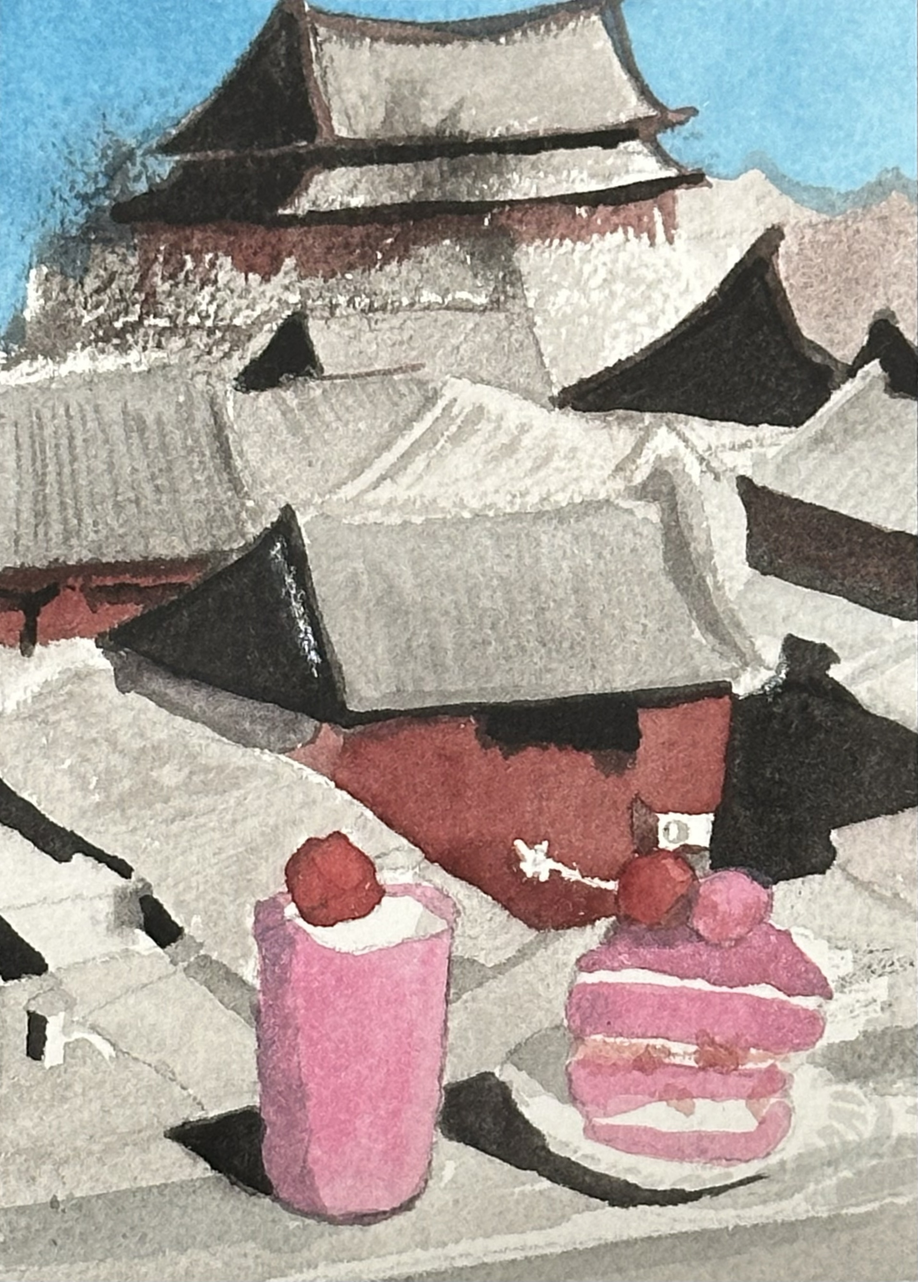
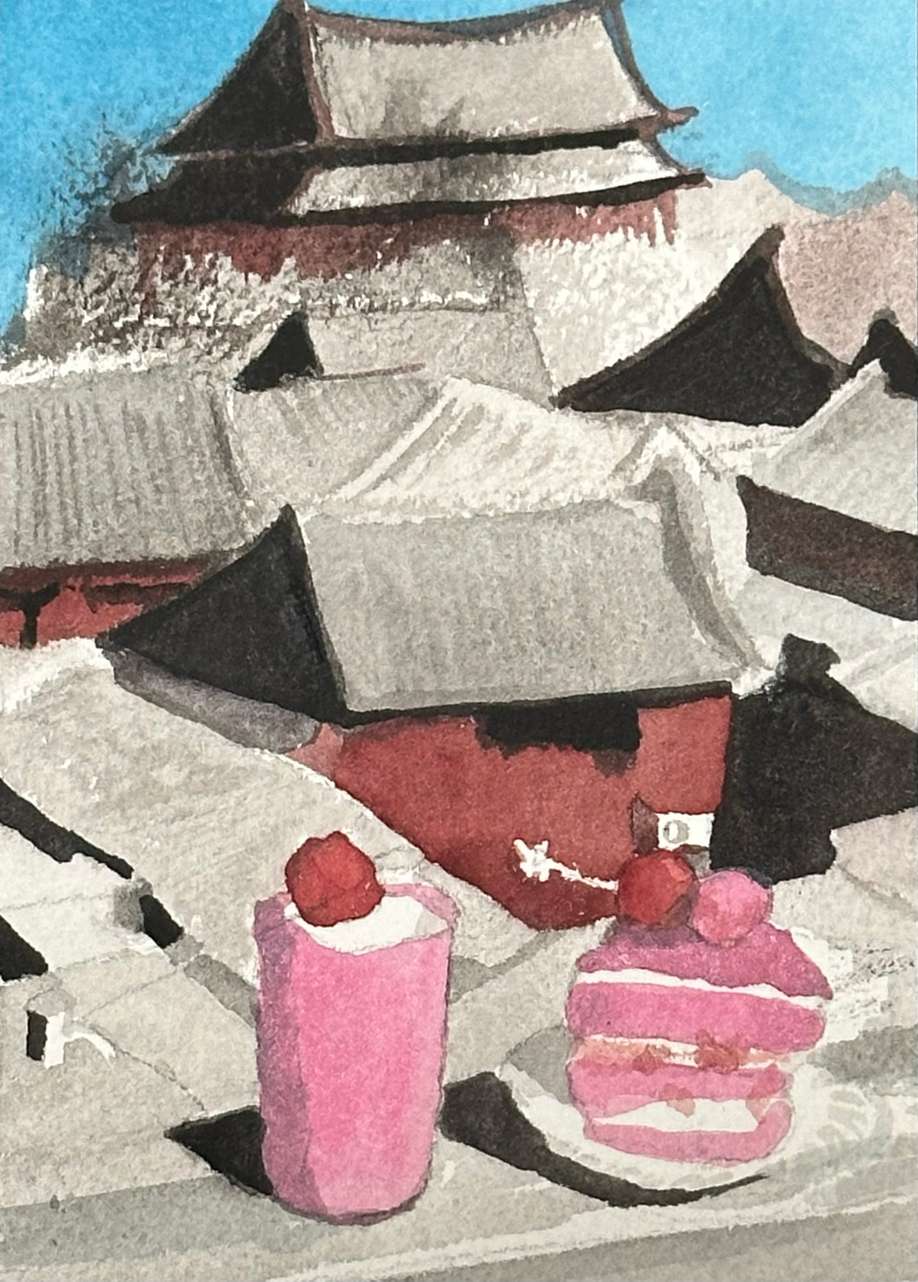
Book: Beijing plate image replaced again with her latest castle-and-cake version; caption restored
Her direction (2026-11-11, later that evening): 「北京 再换成这张」 — the Beijing plate (Notes from the Road #15) takes the newest version of the castle-and-cake watercolor she sent (upload.jpg), replacing the IMG_7194 version added earlier in this PR. The versions are not the same painting (her correction); the book-only file public/book/road/road-castle-cake.jpg now holds the new version's exact bytes. Shop data and image stay untouched.

She also reaffirmed the plate as 北京, so the caption returns to the plate's original three lines — "2025 · Watercolor on paper · 纸本水彩" / "Beijing, China." / "中国，北京。" — undoing the medium-only placeholder caption. Only the picture changes now; the slot (chapter end, folio 83), the cream page and the no-title rule for this chapter are unchanged.

diff --git a/src/pages/CatalogBook.tsx b/src/pages/CatalogBook.tsx
@@ -3468,19 +3468,20 @@ function useBookModel(args: {
         const [nine] = roadChapter.items.splice(nineIdx, 1);
         roadChapter.items.unshift(nine);
       }
-      // Her direction (2026-11-11): the watercolor she sent that day —
-      // a castle keep and grey tiled roofs under a blue sky, a pink
-      // strawberry drink and a pink layered cake in the foreground —
-      // replaces the Beijing plate (Notes from the Road #15) IN THE
-      // BOOK ONLY. The catalog work, its shop image
-      // (/watercolors/60/main.jpg) and its data stay untouched; the
-      // book renders the book-only file at the Beijing plate's slot,
-      // which stays at the chapter's end for now. The new painting's
-      // year and place are NOT yet confirmed by her, so its caption
-      // prints the medium line only — no year, no place line (and no
-      // title, per this chapter's rule) — until she names them; once
-      // she does, the plate may also need to move to that place's
-      // country group above. The slot keeps its cream page (see
+      // Her direction (2026-11-11): the castle-and-cake watercolor
+      // (a castle keep and grey tiled roofs under a blue sky, a pink
+      // strawberry drink and a pink layered cake in the foreground)
+      // replaces the Beijing plate's image (Notes from the Road #15)
+      // IN THE BOOK ONLY. The catalog work, its shop image
+      // (/watercolors/60/main.jpg) and its data stay untouched; only
+      // the picture at the plate's slot is swapped for the book-only
+      // file, and the plate keeps its ORIGINAL caption — year 2025
+      // and the Beijing place lines from the work's data (no title,
+      // per this chapter's rule). She sent the painting in successive
+      // versions that day and corrected us that they are not the same
+      // painting; the file at /book/road/road-castle-cake.jpg is the
+      // latest version she named («北京 再换成这张»). The slot keeps
+      // its chapter-end position and its cream page (see
       // pageBackgrounds.ts).
       roadChapter.items = roadChapter.items.map((pair) =>
         pair.item.title === "Notes from the Road #15"
@@ -3490,9 +3491,6 @@ function useBookModel(args: {
                 ...pair.item,
                 image_url: "/book/road/road-castle-cake.jpg",
                 fallback_image_url: "/book/road/road-castle-cake.jpg",
-                metaLine: "Watercolor on paper",
-                year: "",
-                description: "",
               },
             }
           : pair,
